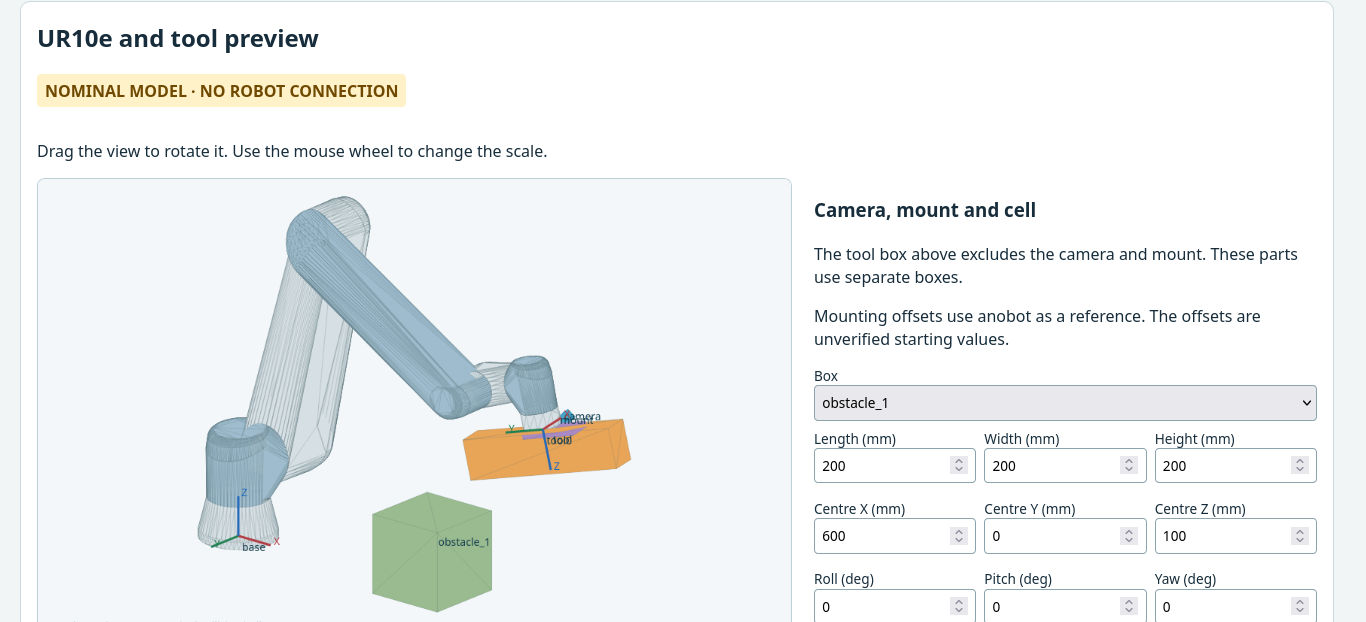
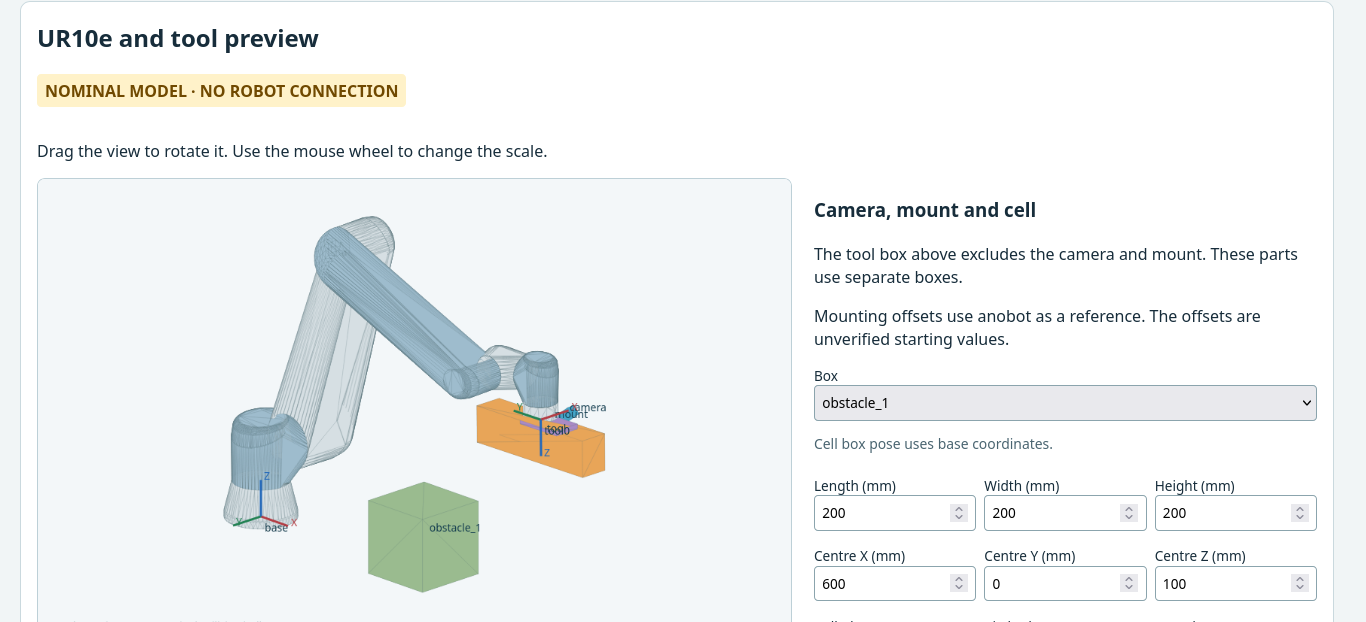
Clarify preview box coordinate frames

Changed region(s): [[0.123, 0.3055, 0.4612, 1.0], [0.5842, 0.7026, 0.9531, 0.9775]]

diff --git a/src/ur_pick_place/web/robot-preview.js b/src/ur_pick_place/web/robot-preview.js
@@ -59,14 +59,15 @@ if(typeof document!=='undefined')document.addEventListener('DOMContentLoaded',()
   <div class="robot-layout"><div><canvas id="robot-canvas" width="1000" height="620" tabindex="0" aria-label="UR10e, tool, camera, mount and cell preview"></canvas>
   <p class="hint">Keyboard: use arrow keys to rotate the view. Use plus or minus to change the scale.</p>
   <p class="legend">Grey: UR10e. Orange: tool. Blue: camera. Purple: mount. Green: cell.</p>
-  <p>Base coordinates use metres. Joint angles use degrees. The preview shows collision hulls.</p>
+  <p>Box dimensions and positions use millimetres. Box angles and joint angles use degrees.</p>
+  <p>The preview shows collision hulls. The nominal model uses generic UR10e data. It does not include this robot's factory calibration.</p>
   <p id="path-status" role="status">Example joint pose. No path check is loaded.</p>
   <label>Path file <input type="file" id="path-import" accept=".json,application/json"></label>
   <label>Path segment <select id="path-segment" disabled></select></label>
   <label>Position along segment <input id="path-position" type="range" min="0" max="1000" value="0" disabled></label>
   <div id="joint-inputs" class="grid"></div></div>
   <div><h3>Camera, mount and cell</h3><p>The tool box above excludes the camera and mount. These parts use separate boxes.</p><p>Mounting offsets use anobot as a reference. The offsets are unverified starting values.</p>
-  <label>Box <select id="scene-box"></select></label><div id="scene-fields" class="grid"></div>
+  <label>Box <select id="scene-box"></select></label><p id="scene-frame" class="hint" aria-live="polite"></p><div id="scene-fields" class="grid"></div>
   <button id="add-obstacle" type="button">Add cell box</button><button id="remove-obstacle" class="secondary" type="button">Remove cell box</button>
   <label>Clearance (mm) <input id="scene-clearance" type="number" min="0.1" max="100" step="0.1" value="5"></label>
   <label>Model uncertainty (mm) <input id="scene-uncertainty" type="number" min="0.1" max="100" step="0.1" value="3"></label>
@@ -90,7 +91,7 @@ if(typeof document!=='undefined')document.addEventListener('DOMContentLoaded',()
   for(let i=0;i<9;i++){const label=document.createElement('label');label.textContent=fieldKeys[i]+(i<6?' (mm)':' (deg)');const input=document.createElement('input');input.type='number';input.step='.1';input.id='body-'+i;input.addEventListener('input',editBody);label.append(input);bodyInputs.push(input);el('scene-fields').append(label);}
   function selected(){return [...scene.attached,...scene.obstacles].find(b=>b.name===el('scene-box').value);}
   function options(){const previous=el('scene-box').value;el('scene-box').replaceChildren();for(const b of [...scene.attached,...scene.obstacles].filter(b=>b.name!=='tool')){const o=document.createElement('option');o.value=b.name;o.textContent=b.name;el('scene-box').append(o);}if([...el('scene-box').options].some(o=>o.value===previous))el('scene-box').value=previous;showBody();}
-  function showBody(){const b=selected();if(!b)return;bodyValid=true;const v=[...b.dimensions_m.map(x=>x*1000),...b.pose.xyz_m.map(x=>x*1000),...b.pose.rpy_rad.map(x=>x*180/Math.PI)];bodyInputs.forEach((n,i)=>n.value=Number(v[i].toFixed(6)));el('remove-obstacle').disabled=!scene.obstacles.includes(b);}
+  function showBody(){const b=selected();if(!b)return;el('scene-frame').textContent=scene.obstacles.includes(b)?'Cell box pose uses base coordinates.':'Camera and mount poses use tool0 (flange) coordinates.';bodyValid=true;const v=[...b.dimensions_m.map(x=>x*1000),...b.pose.xyz_m.map(x=>x*1000),...b.pose.rpy_rad.map(x=>x*180/Math.PI)];bodyInputs.forEach((n,i)=>n.value=Number(v[i].toFixed(6)));el('remove-obstacle').disabled=!scene.obstacles.includes(b);}
   function changed(){scene.confirmed=false;scene.environment_complete=false;message.textContent='The scene changed. Check the physical model and cell again.';sync();draw();}
   function editBody(){const v=bodyInputs.map(n=>n.value.trim()===''?NaN:Number(n.value)),next=copy(scene),b=[...next.attached,...next.obstacles].find(x=>x.name===selected()?.name);if(!b)return;b.dimensions_m=v.slice(0,3).map(x=>x/1000);b.pose={xyz_m:v.slice(3,6).map(x=>x/1000),rpy_rad:v.slice(6).map(x=>x*Math.PI/180)};try{validateScene(next,UR_MODEL_SHA256);bodyValid=true;scene=next;changed();}catch{bodyValid=false;message.textContent='Enter valid dimensions and offsets. The view keeps the last valid scene.';}}
   function sync(){el('scene-confirmed').checked=scene.confirmed;el('scene-complete').checked=scene.environment_complete;el('scene-clearance').value=scene.clearance_m*1000;el('scene-uncertainty').value=scene.model_uncertainty_m*1000;state.textContent=scene.confirmed&&scene.environment_complete&&scene.obstacles.length?'SCENE RECORDED · PATH CHECK REQUIRED':'AUTOMATIC MOTION BLOCKED';showPathStatus();}

diff --git a/src/ur_pick_place/web/tool-envelope.html b/src/ur_pick_place/web/tool-envelope.html
@@ -2,7 +2,7 @@
 <html lang="en"><head><meta charset="utf-8"><meta name="viewport" content="width=device-width,initial-scale=1"><title>Tool box draft</title>
 <link rel="stylesheet" href="tool-envelope.css"><script src="ur10e-model.js" defer></script><script src="robot-preview.js" defer></script><script src="tool-envelope.js" defer></script></head><body><header><h1>Tool box editor</h1><p>This page works offline. The flange is the robot mounting face. tool0 is its reference frame.</p></header><main>
 <section class="panel" aria-label="Tool box draft"><span class="badge">DRAFT · FOR VIEWING ONLY</span><p class="hint">The example values are not measured. The orientation and coverage are uncertain. This page shows the tool box. It does not check for collisions. It does not change robot settings.</p>
-<p class="hint">The box axes move with the tool box. The flange axes stay fixed to the flange.</p><fieldset><legend>Full dimensions of the tool box (mm)</legend><div class="grid"><label>Length (box X)<input id="length" type="number" step="any" value="390"></label><label>Width (box Y)<input id="width" type="number" step="any" value="80"></label><label>Height (box Z)<input id="height" type="number" step="any" value="100"></label></div></fieldset>
+<p class="hint">The tool pose uses tool0 (flange) coordinates. The box axes move with the tool box.</p><fieldset><legend>Full dimensions of the tool box (mm)</legend><div class="grid"><label>Length (box X)<input id="length" type="number" step="any" value="390"></label><label>Width (box Y)<input id="width" type="number" step="any" value="80"></label><label>Height (box Z)<input id="height" type="number" step="any" value="100"></label></div></fieldset>
 <fieldset><legend>Centre relative to the flange (mm)</legend><div class="grid"><label>X<input id="x" type="number" step="any" value="0"></label><label>Y<input id="y" type="number" step="any" value="0"></label><label>Z<input id="z" type="number" step="any" value="50"></label></div></fieldset>
 <fieldset><legend>Orientation (degrees)</legend><p class="hint">Roll, pitch and yaw are rotations about X, Y and Z. The order is Rz(yaw) × Ry(pitch) × Rx(roll). A UR rotation vector describes orientation in a different way.</p><div class="grid"><label>Roll<input id="roll" type="number" step="any" value="0"></label><label>Pitch<input id="pitch" type="number" step="any" value="0"></label><label>Yaw<input id="yaw" type="number" step="any" value="0"></label></div></fieldset>
 <label>Margin (mm)<input id="margin" type="number" step="any" value="0"></label><label>Camera and mount coverage<select id="coverage"><option value="unconfirmed">Unconfirmed</option><option value="tool-only">Tool only</option><option value="includes-camera-mount">Camera and mount included</option></select></label>

diff --git a/docs/COLLISION_REVIEW.md b/docs/COLLISION_REVIEW.md
@@ -21,6 +21,11 @@ This image is a generated geometry view. It is not a browser screenshot.
 7. Enter the measured model uncertainty and required clearance.
 8. Export the collision scene to a new JSON file.
 
+Box dimensions and positions use millimetres. Box and joint angles use degrees.
+The tool, camera and mount poses use tool0 (flange) coordinates. Cell box poses
+use base coordinates. The arm model uses generic UR10e data. It does not include
+this robot’s factory calibration.
+
 Joint fields change the displayed pose only. They do not send robot commands.
 The canvas also supports arrow keys and plus/minus keys. A saved calibration
 `session.json` displays its joint segments, including returns. A checked-plan
@@ -137,7 +142,7 @@ and return paths pass in the example model. The example scene remains unconfirme
 
 Node tests exercise the editor scripts with a DOM double. A headless Firefox review
 exercised the local calibration file and the teacher HTTP editor with an inert service.
-The review covered scene and joint edits, view controls, import/export, invalid input,
+The review covered frame labels, scene and joint edits, view controls, import/export, invalid input,
 confirmation reset, saved paths and stage selection. The screenshot below is from
 that browser review. No attended hardware trial occurred.
 

diff --git a/TODO.md b/TODO.md
@@ -2,7 +2,7 @@
 
 - Done in this local review: UR10e arm preview, separate editable tool/camera/mount boxes, cell boxes and saved joint-path review.
 - Done in the hand-eye review: original 25/30 degree controls, conservative checks for probes/views/replans/returns, recorded results and runtime checks before each joint command. The default scene blocks automatic motion.
-- Done offline: Firefox reviewed the teacher and calibration editors with an inert service. Open: coordinator review, robot-specific geometry and uncertainty verification, measured cell coverage, tracking/path-fidelity validation and an attended hardware trial. Nothing in this local follow-up is published or deployed.
+- Done offline: The editor labels tool0 and base box frames and identifies the generic robot model. Firefox reviewed the teacher and calibration editors with an inert service. Open: coordinator review, robot-specific geometry and uncertainty verification, measured cell coverage, tracking/path-fidelity validation and an attended hardware trial. Nothing in this local follow-up is published or deployed.
 - Open in Marker Pick Teacher: integrate actual Cartesian stages and return-to-observation with a suitable path validator. Its new panel is visual only.
 - Read [the implementation guide](docs/COLLISION_REVIEW.md).
 

diff --git a/README.md b/README.md
@@ -2,7 +2,7 @@
 
 ## UR10e model and calibration collision review
 
-The editor now shows the nominal UR10e, the tool box, and separate camera and mount boxes. It supports joint-pose changes, cell boxes and saved-path review. Read the [detailed review guide](docs/COLLISION_REVIEW.md).
+The editor now shows the nominal UR10e, the tool box, and separate camera and mount boxes. It supports joint-pose changes, cell boxes and saved-path review. Box fields identify the tool0 or base frame. The generic model does not include this robot’s factory calibration. Read the [detailed review guide](docs/COLLISION_REVIEW.md).
 
 ![Generated nominal UR10e geometry](docs/robot-tool-preview.svg)
 
